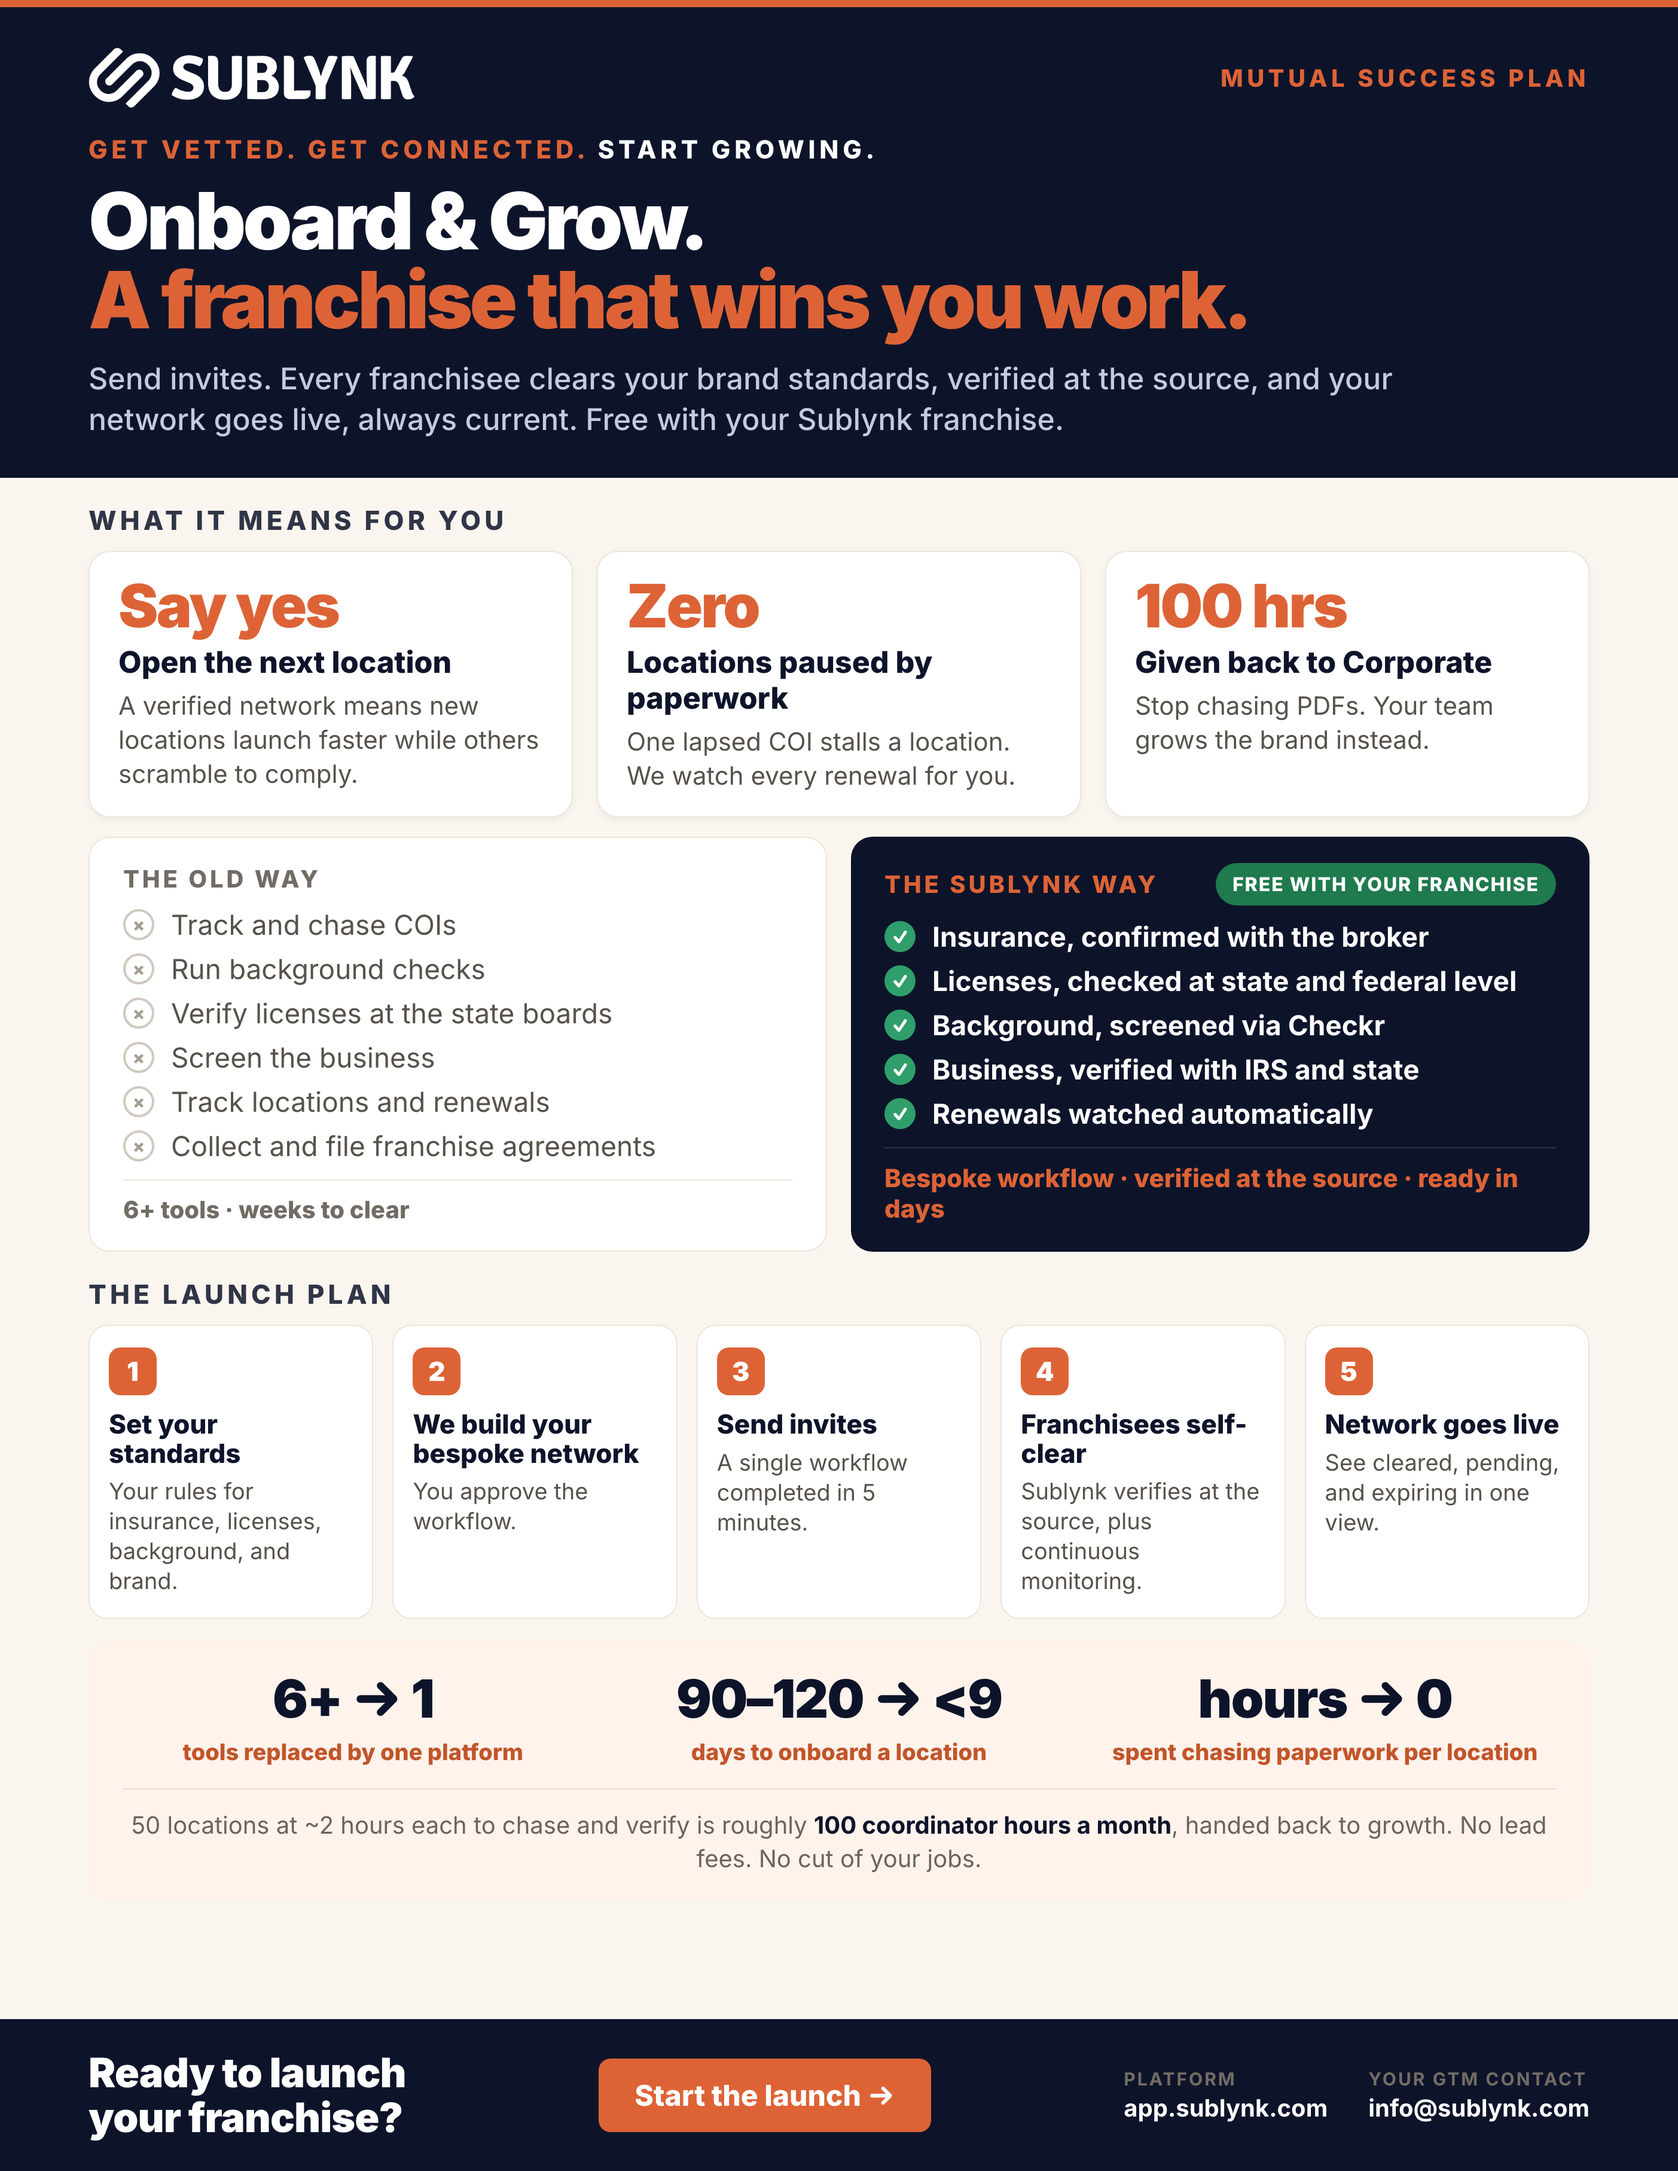
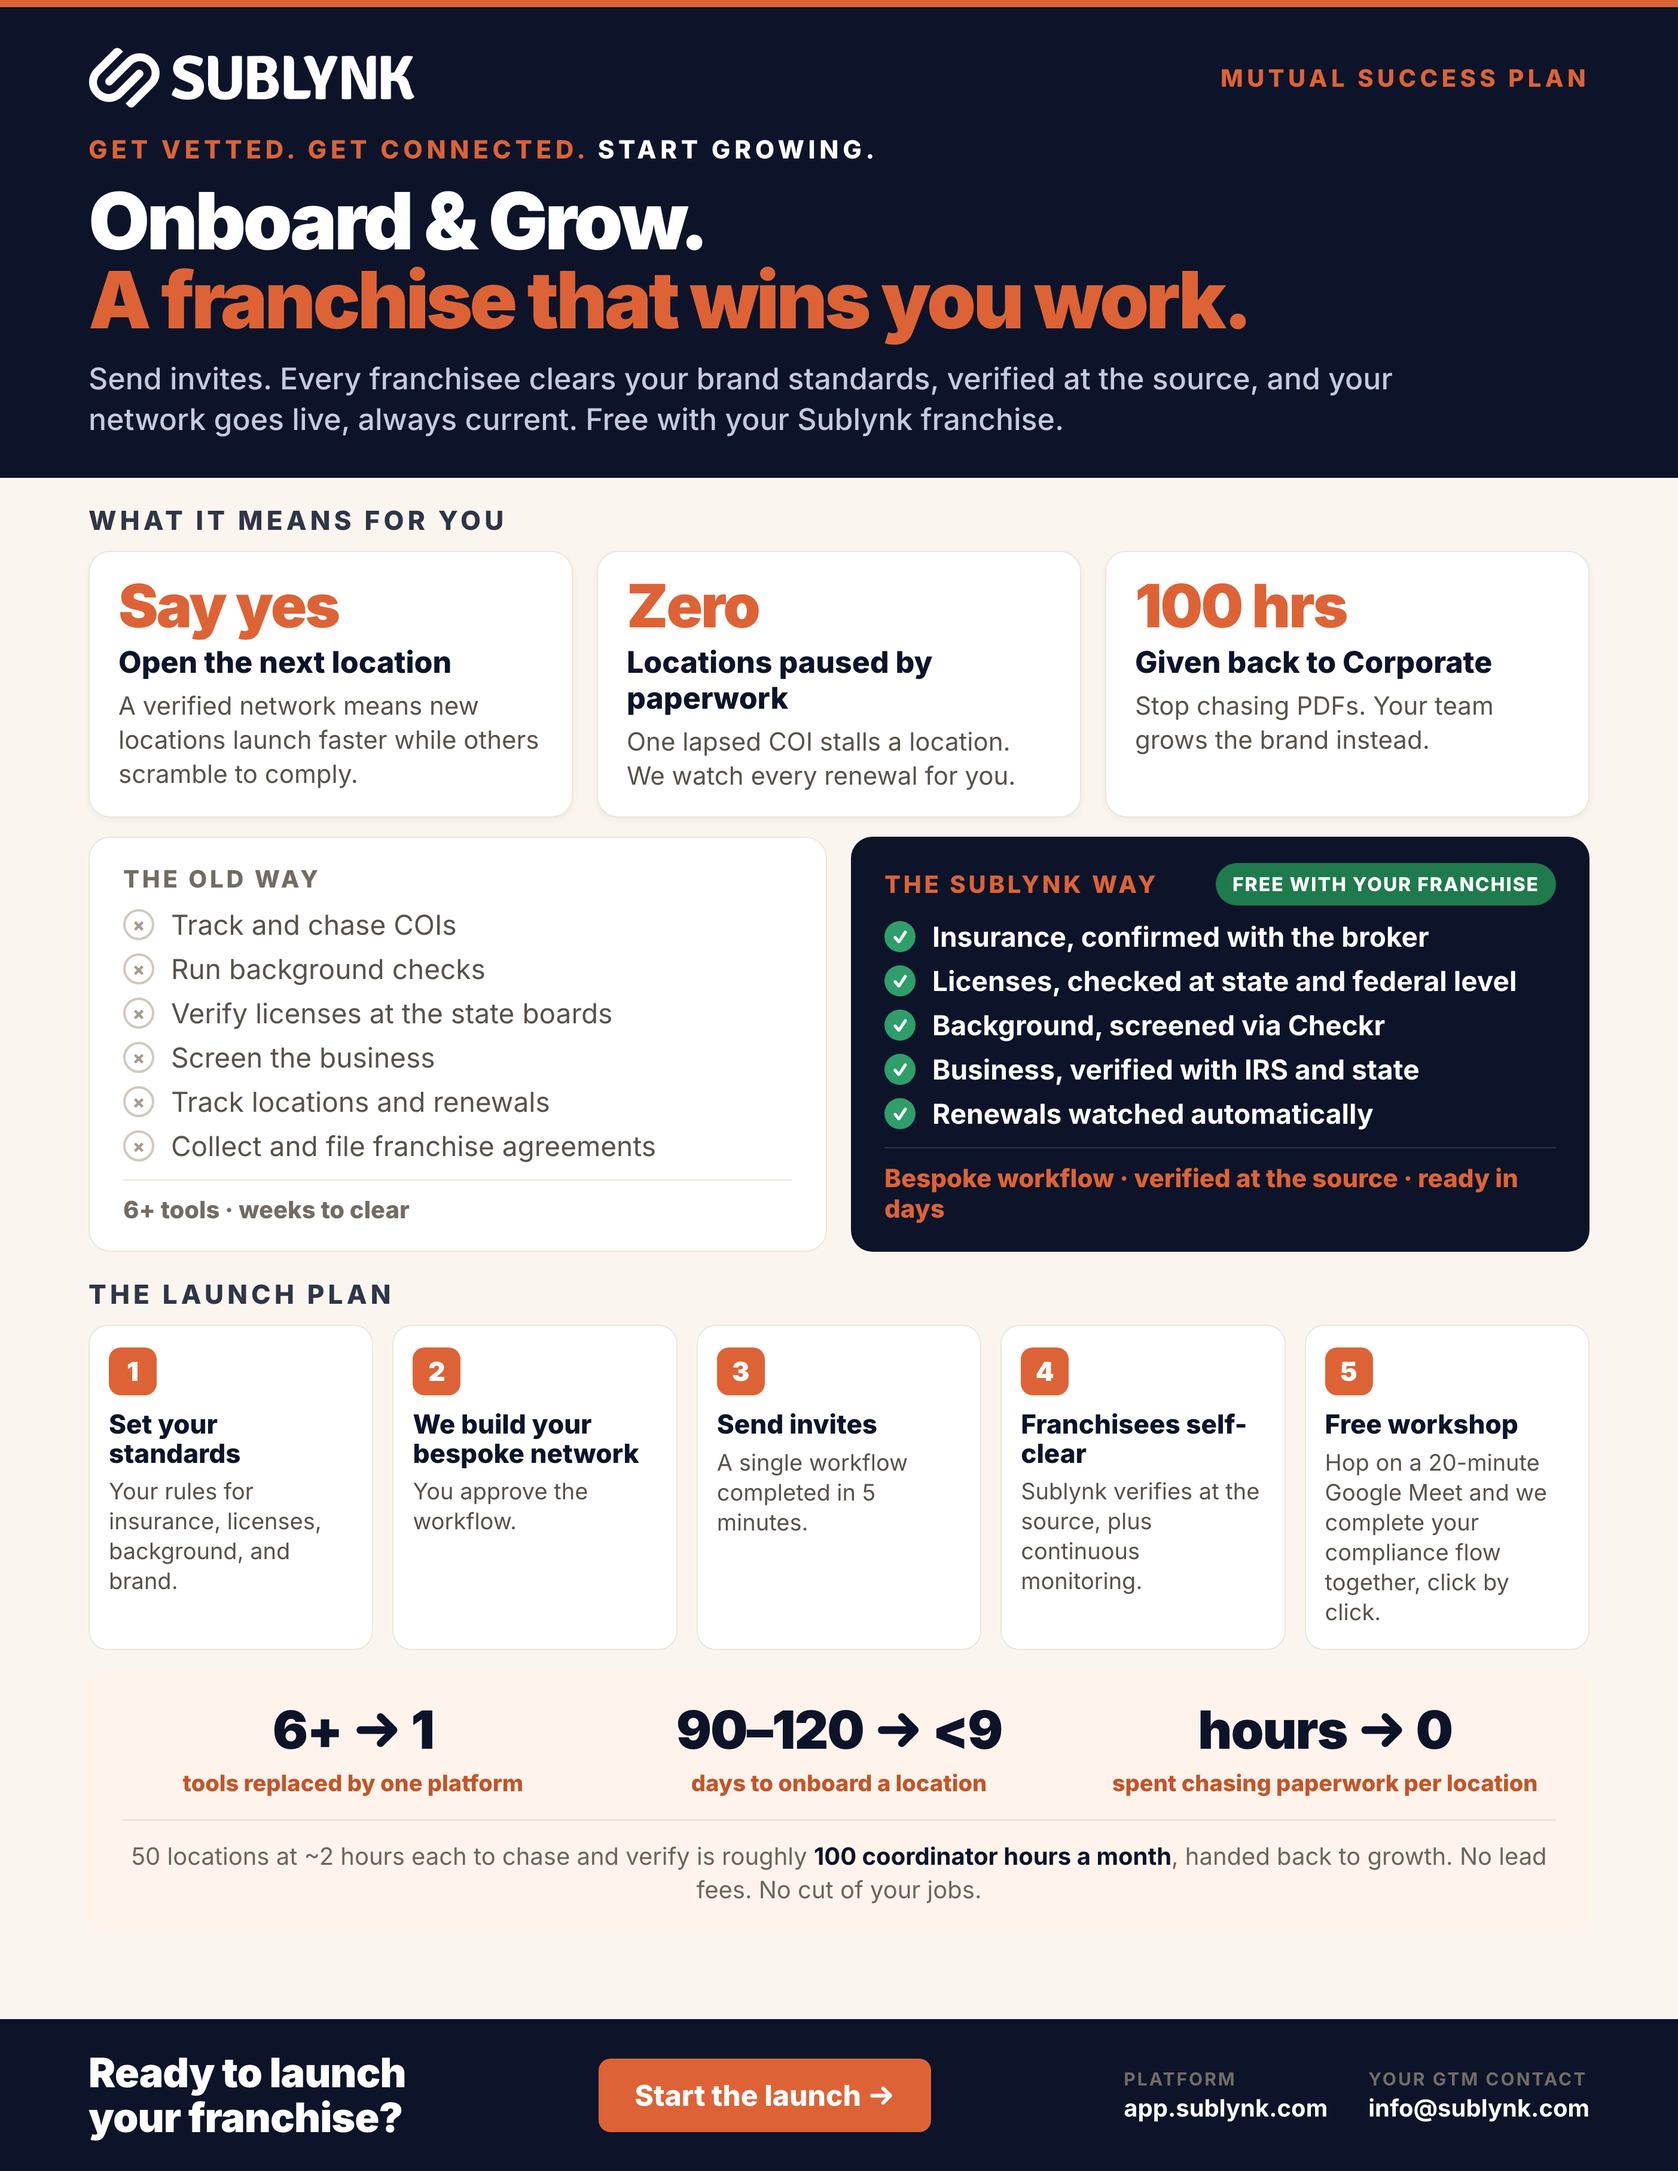
Franchise MSP page: replace step 5 'Network goes live' with 'Free workshop'
The network goes live earlier in the flow, so step 5 was inaccurate. Step 5
is now a free 20-minute Google Meet where we complete the compliance flow
together, click by click. Regenerated PNG; artifact rebuilt + republished.

Changed region(s): [[0.093, 0.7471, 0.9301, 0.8716], [0.7751, 0.6537, 0.9301, 0.7471]]

diff --git a/grow-franchise/_src/04-mutual-success.html b/grow-franchise/_src/04-mutual-success.html
@@ -123,7 +123,7 @@ h1.hl span{color:var(--orange)}
     <div class="oldw"><div class="h">The old way</div><ul><li><span class="x">&times;</span>Track and chase COIs</li><li><span class="x">&times;</span>Run background checks</li><li><span class="x">&times;</span>Verify licenses at the state boards</li><li><span class="x">&times;</span>Screen the business</li><li><span class="x">&times;</span>Track locations and renewals</li><li><span class="x">&times;</span>Collect and file franchise agreements</li></ul><div class="foot">6+ tools &middot; weeks to clear</div></div>
     <div class="subw"><div class="top"><div class="h">The Sublynk way</div><div class="free">Free with your franchise</div></div><ul><li><span class="c">&#10003;</span>Insurance, confirmed with the broker</li><li><span class="c">&#10003;</span>Licenses, checked at state and federal level</li><li><span class="c">&#10003;</span>Background, screened via Checkr</li><li><span class="c">&#10003;</span>Business, verified with IRS and state</li><li><span class="c">&#10003;</span>Renewals watched automatically</li></ul><div class="foot">Bespoke workflow &middot; verified at the source &middot; ready in days</div></div>
   </div></div>
-  <div class="sec k"><div class="eyebrow">The launch plan</div><div class="lrow"><div class="lstep"><div class="n">1</div><h4>Set your standards</h4><p>Your rules for insurance, licenses, background, and brand.</p></div><div class="lstep"><div class="n">2</div><h4>We build your bespoke network</h4><p>You approve the workflow.</p></div><div class="lstep"><div class="n">3</div><h4>Send invites</h4><p>A single workflow completed in 5 minutes.</p></div><div class="lstep"><div class="n">4</div><h4>Franchisees self-clear</h4><p>Sublynk verifies at the source, plus continuous monitoring.</p></div><div class="lstep"><div class="n">5</div><h4>Network goes live</h4><p>See cleared, pending, and expiring in one view.</p></div></div></div>
+  <div class="sec k"><div class="eyebrow">The launch plan</div><div class="lrow"><div class="lstep"><div class="n">1</div><h4>Set your standards</h4><p>Your rules for insurance, licenses, background, and brand.</p></div><div class="lstep"><div class="n">2</div><h4>We build your bespoke network</h4><p>You approve the workflow.</p></div><div class="lstep"><div class="n">3</div><h4>Send invites</h4><p>A single workflow completed in 5 minutes.</p></div><div class="lstep"><div class="n">4</div><h4>Franchisees self-clear</h4><p>Sublynk verifies at the source, plus continuous monitoring.</p></div><div class="lstep"><div class="n">5</div><h4>Free workshop</h4><p>Hop on a 20-minute Google Meet and we complete your compliance flow together, click by click.</p></div></div></div>
   <div class="sec"><div class="band">
     <div class="row3">
       <div><div class="num">6+ &rarr; 1</div><div class="cap">tools replaced by one platform</div></div>

diff --git a/grow-franchise/_src/build_pages.py b/grow-franchise/_src/build_pages.py
@@ -266,7 +266,7 @@ def page4():
            ("We build your bespoke network","You approve the workflow."),
            ("Send invites","A single workflow completed in 5 minutes."),
            ("Franchisees self-clear","Sublynk verifies at the source, plus continuous monitoring."),
-           ("Network goes live","See cleared, pending, and expiring in one view.")]
+           ("Free workshop","Hop on a 20-minute Google Meet and we complete your compliance flow together, click by click.")]
     stats=[("Say yes","Open the next location","A verified network means new locations launch faster while others scramble to comply."),
            ("Zero","Locations paused by paperwork","One lapsed COI stalls a location. We watch every renewal for you."),
            ("100 hrs","Given back to Corporate","Stop chasing PDFs. Your team grows the brand instead.")]
